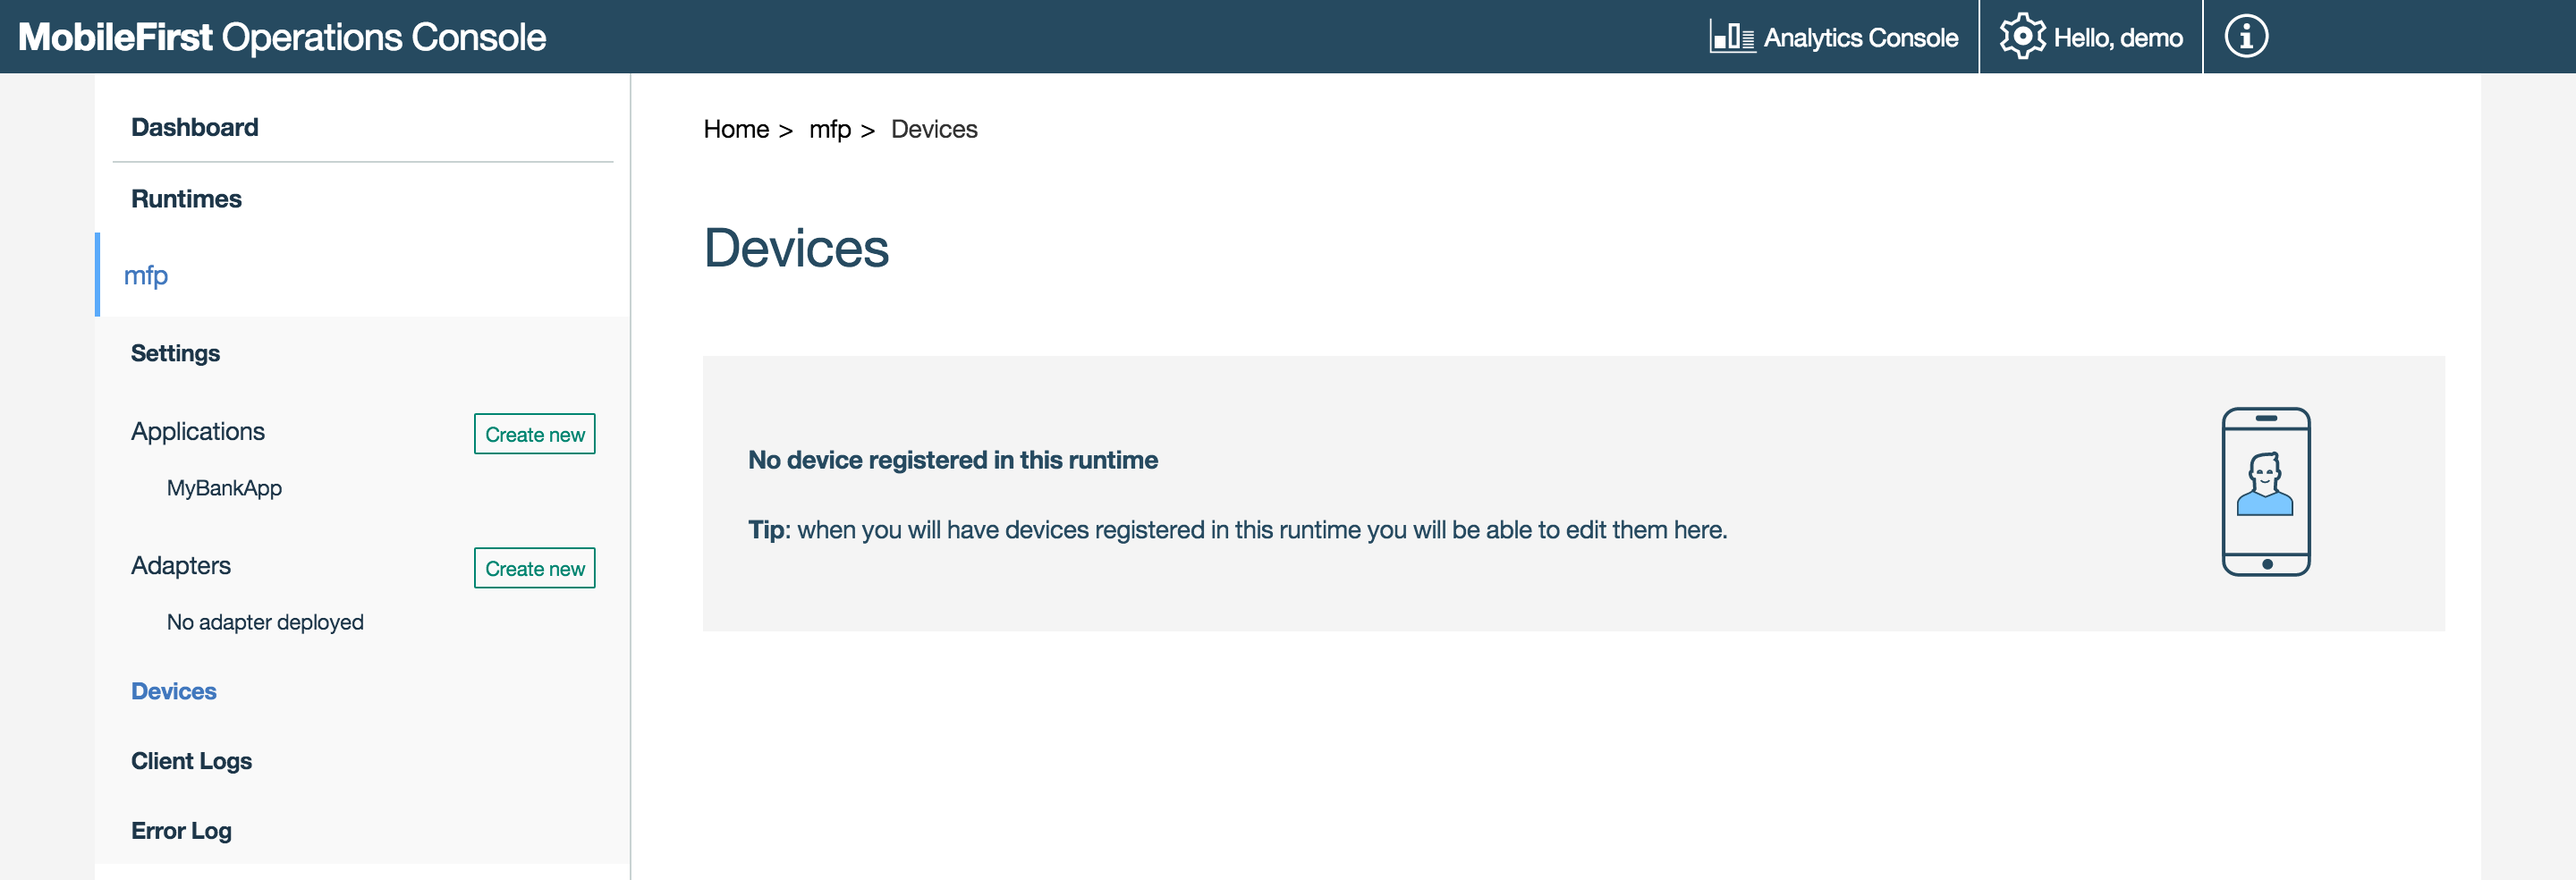
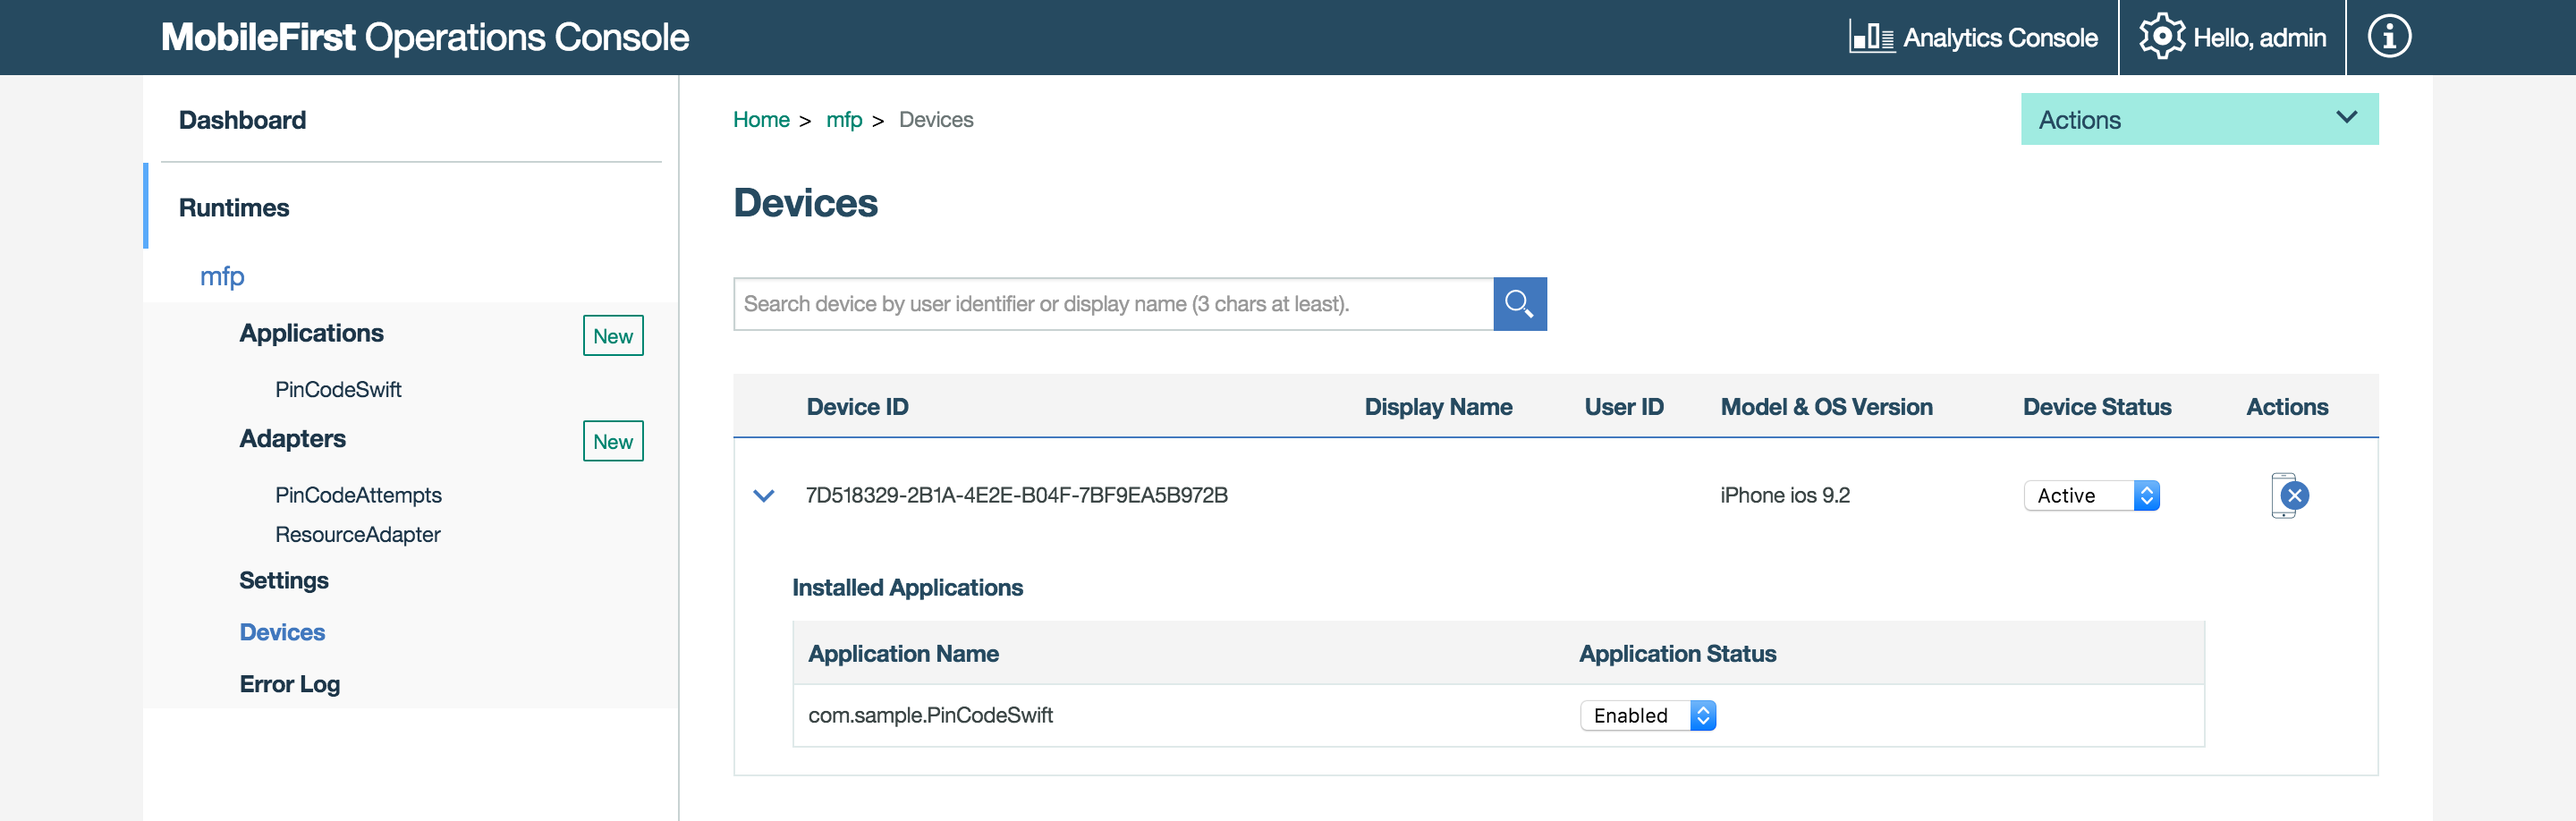
update images

diff --git a/tutorials/en/foundation/8.0/quick-start/console/index.md b/tutorials/en/foundation/8.0/quick-start/console/index.md
@@ -85,8 +85,6 @@ Set-up [push notifications](../../notifications/push-notifications-overview/) an
 #### Creating adapters
 Register an adapter and download Starter Code, as well as update an adapter on-the-fly by updating its properties without needing to re-build and re-deploy the adapter artifact.
 
-<span style="color:red">update image</span>
-
 ![Image of adapter registration screen](create-adapter.png)
 
 #### Adapter properties
@@ -100,8 +98,6 @@ Devices can be searched for using either user ID or using a friendly name. The u
 A friendly name is a name that is associated with the device to distinguish it from other devices that share the user ID. 
 
 > For more information, see the topic about device access management in the MobileFirst Operations Console in the user documentation.
-
-<span style="color:red">replace with image showing logged devices</span>
 
 ![Image of device management screen](devices.png)
 
@@ -129,7 +125,5 @@ License terms vary depending on which edition (Enterprise or Consumer) of Mobile
 By tracking the usage of client devices and determining whether the devices are active, administrators can decommission devices that should no longer be accessing the service. This situation might arise if an employee has left the company, for example.
 
 > For more information, see the topic about license tracking in the user documentation.</p></blockquote>
-
-<span style="color:red">replace with image showing license information</span>
 
 ![Image of client logs screen](license-tracking.png)
